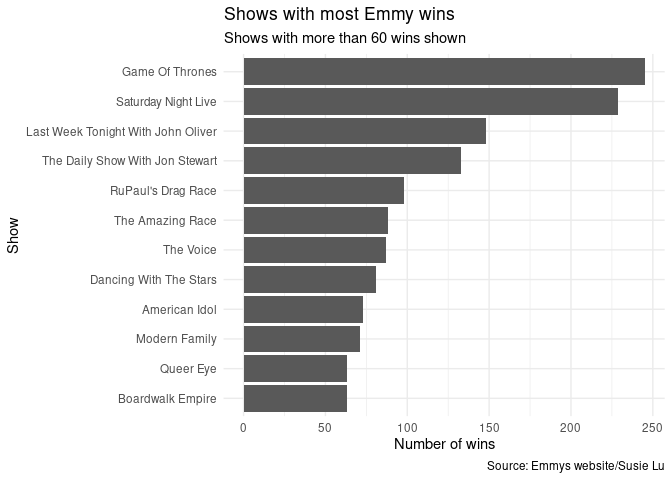
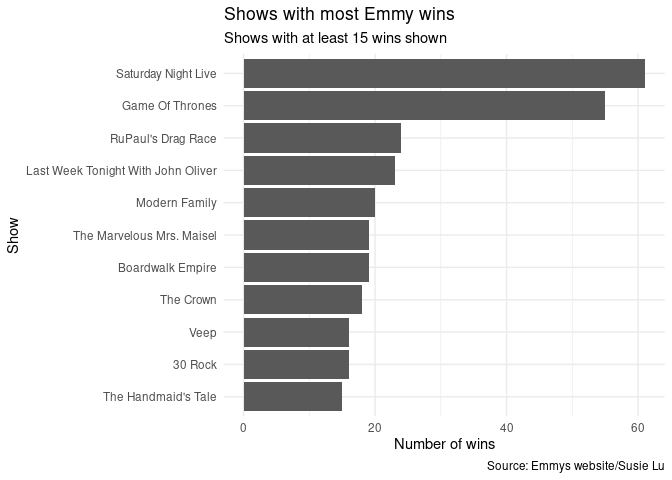
Complete analysis, convert to cautionary tale

diff --git a/week-01-emmys/emmys.md b/week-01-emmys/emmys.md
@@ -5,12 +5,20 @@ Alex Homer
 
 ``` r
 library(tidyverse)
+library(wesanderson) #For colour scales later
 ```
+
+*(Before running code chunks from this file, go to Session &gt; Set
+Working Directory &gt; To Files Pane Location in RStudio.)*
+
+*(Also, as you’ll see at the end, there’s a data collection error
+happened with this dataset that affects all of the analysis below. You
+have been warned!)*
 
 ## Read data
 
-The data are drawn from the “Tidy Tuesday” project: [2021 Week 39: Emmy
-Awards and
+The data are [1] drawn from the “Tidy Tuesday” project: [2021 Week 39:
+Emmy Awards and
 Nominees](https://github.com/rfordatascience/tidytuesday/blob/master/data/2021/2021-09-21/readme.md)
 (credit: [Emmys
 website](https://www.emmys.com/awards/nominations/award-search)/[Susie
@@ -18,7 +26,22 @@ Lu](https://www.susielu.com/data-viz/emmy-2017)). They have been lightly
 cleaned.
 
 ``` r
-nominees <- readRDS("data/nominees_clean.rds")
+nominees_original <- readRDS("data/nominees_clean.rds")
+```
+
+*(Some of the code used in the subsequent sections is relatively
+advanced! Don’t worry if you don’t understand what every line is doing.
+We’ll be covering all of these by the end of the course.)*
+
+## Cleanup
+
+We need to do a little more clean-up first, because some shows are
+multiple-listed when multiple people shared the same award.
+
+``` r
+nominees <- nominees_original %>%
+  select(category, type, title, distributor, year) %>%
+  distinct()
 ```
 
 ## Who won the most Emmys?
@@ -37,23 +60,23 @@ winners <- nominees %>%
     ## # A tibble: 719 × 2
     ##    title                                  n
     ##    <chr>                              <int>
-    ##  1 Game Of Thrones                      245
-    ##  2 Saturday Night Live                  229
-    ##  3 Last Week Tonight With John Oliver   148
-    ##  4 The Daily Show With Jon Stewart      133
-    ##  5 RuPaul's Drag Race                    98
-    ##  6 The Amazing Race                      88
-    ##  7 The Voice                             87
-    ##  8 Dancing With The Stars                81
-    ##  9 American Idol                         73
-    ## 10 Modern Family                         71
+    ##  1 Saturday Night Live                   61
+    ##  2 Game Of Thrones                       55
+    ##  3 RuPaul's Drag Race                    24
+    ##  4 Last Week Tonight With John Oliver    23
+    ##  5 Modern Family                         20
+    ##  6 Boardwalk Empire                      19
+    ##  7 The Marvelous Mrs. Maisel             19
+    ##  8 The Crown                             18
+    ##  9 30 Rock                               16
+    ## 10 Veep                                  16
     ## # … with 709 more rows
 
-Game of Thrones won the most Emmys. Let’s see a graph!
+*Saturday Night Live* won the most Emmys. Let’s see a graph!
 
 ``` r
 #First make a new data frame with an "other" category.
-cutoff <- 60
+cutoff <- 15
 
 winners_count %>% filter(n >= cutoff) %>%
   mutate(title = fct_reorder(title, n)) %>%
@@ -63,10 +86,206 @@ winners_count %>% filter(n >= cutoff) %>%
     x = "Number of wins",
     y = "Show",
     title = "Shows with most Emmy wins",
-    subtitle = paste("Shows with more than", cutoff, "wins shown"),
+    subtitle = paste("Shows with at least", cutoff, "wins shown"),
     caption = "Source: Emmys website/Susie Lu"
   ) +
   theme_minimal()
 ```
 
 ![](emmys_files/figure-gfm/winner-plot-1.png)<!-- -->
+
+What if we wanted to see which distributor was responsible for each
+winning show? We’ll need to go back to the original data, since we’ve
+already “thrown away” that information in the `winners_count` data
+frame.
+
+``` r
+cbbPalette <- c(
+  "#000000", "#E69F00", "#56B4E9", "#009E73",
+  "#F0E442", "#0072B2", "#D55E00", "#CC79A7"
+)
+
+winners %>% count(title, distributor) %>%
+  filter(n >= cutoff) %>%
+  mutate(title = fct_reorder(title, n)) %>%
+  ggplot(aes(x = n, y = title, fill = distributor)) +
+  geom_col() +
+  labs(
+    x = "Number of wins",
+    y = "Show",
+    fill = "Distributor",
+    title = "Shows with most Emmy wins",
+    subtitle = paste("Shows with at least", cutoff, "wins shown"),
+    caption = "Source: Emmys website/Susie Lu"
+  ) +
+  scale_fill_manual(values = cbbPalette) +
+  theme_minimal()
+```
+
+![](emmys_files/figure-gfm/distribs-1.png)<!-- -->
+
+The colour palette used is taken from [The R
+Cookbook](http://www.cookbook-r.com/Graphs/Colors_(ggplot2)/#a-colorblind-friendly-palette)
+and is colourblind-friendly.
+
+## HBO v Netflix
+
+HBO looks to have had quite a few of the most successful shows (in terms
+of Emmy nominations, at least), but one of the stories people chose to
+tell with these data on Tidy Tuesday was the rise of Netflix. Let’s see
+if we can graph that.
+
+``` r
+hbo_netflix <- nominees %>%
+  filter(distributor == "HBO" | distributor == "Netflix")
+
+#We need to account for the fact that winners were also nominees
+hbo_netflix_extra <- hbo_netflix %>%
+  filter(type == "Winner") %>%
+  mutate(type = "Nominee")
+
+hbo_netflix_year <- hbo_netflix %>%
+  bind_rows(hbo_netflix_extra) %>%
+  count(distributor, type, year)
+
+hbo_netflix_year %>%
+  arrange(year) %>%
+  mutate(distributor = fct_reorder(distributor, -n, last)) %>%
+  ggplot(aes(x = year, y = n)) +
+  geom_line(aes(colour = distributor, linetype = type), size = 2) +
+  scale_colour_manual(values = wes_palette("IsleofDogs1")) +
+  labs(
+    x = "Year",
+    y = "Number of nominations",
+    colour = "Distributor",
+    title = "Netflix overtook HBO for Emmy nominations in 2020...",
+    subtitle = "... and for winners in 2021",
+    caption = "Source: Emmys website/Susie Lu"
+  ) +
+  theme_minimal()
+```
+
+![](emmys_files/figure-gfm/hbo-v-netflix-1.png)<!-- -->
+
+Maybe the different line types are confusing… We could fix that by
+faceting, but we’ll do that another time.
+
+The `wes_palette` function used here is from the
+[`wesanderson`](https://cran.r-project.org/web/packages/wesanderson/index.html)
+package, and provides colourblind-friendly colour palettes inspired by
+the films of [Wes Anderson](https://en.wikipedia.org/wiki/Wes_Anderson)
+(who is known for “deliberately limited colour palette\[s\]” [2] in his
+movies).
+
+## What happened in 2014?
+
+See the dip in 2014? Let’s investigate that.
+
+``` r
+winners %>% count(year) %>%
+  ggplot(aes(x = year, y = n)) +
+  geom_line() +
+  labs(
+    x = "Year",
+    y = "Total number of winners",
+    title = "The number of Emmy winners rose sharply in the 21st Century...",
+    subtitle = "... apart from in 2014, apparently",
+    caption = "Source: Emmys website/Susie Lu"
+  ) +
+  theme_minimal()
+```
+
+![](emmys_files/figure-gfm/2014-1.png)<!-- -->
+
+Let’s investigate…
+
+``` r
+nominees_2014 <- nominees_original %>%
+  filter(year == 2014)
+
+nominees_2013 <- nominees_original %>%
+  filter(year == 2013)
+
+nominees_2014 %>% select(category) %>%
+  distinct()
+```
+
+    ## # A tibble: 14 × 1
+    ##    category                                                 
+    ##    <chr>                                                    
+    ##  1 Outstanding Lead Actress In A Drama Series               
+    ##  2 Outstanding Lead Actor In A Drama Series                 
+    ##  3 Outstanding Supporting Actress In A Drama Series         
+    ##  4 Outstanding Supporting Actor In A Drama Series           
+    ##  5 Outstanding Guest Actress In A Drama Series              
+    ##  6 Outstanding Guest Actor In A Drama Series                
+    ##  7 Outstanding Lead Actress In A Comedy Series              
+    ##  8 Outstanding Lead Actor In A Comedy Series                
+    ##  9 Outstanding Supporting Actress In A Comedy Series        
+    ## 10 Outstanding Supporting Actor In A Comedy Series          
+    ## 11 Outstanding Guest Actress In A Comedy Series             
+    ## 12 Outstanding Guest Actor In A Comedy Series               
+    ## 13 Outstanding Lead Actor In A Miniseries Or A Movie        
+    ## 14 Outstanding Supporting Actress In A Miniseries Or A Movie
+
+The 2014 dataset only appear to contain acting awards! Whereas for 2013,
+if we look at awards without the words “Actor” or “Actress” in the
+title.
+
+``` r
+nominees_2013 %>% select(category) %>%
+  filter(!str_detect(category, "Actor")) %>%
+  filter(!str_detect(category, "Actress")) %>%
+  distinct()
+```
+
+    ## # A tibble: 81 × 1
+    ##    category                                                           
+    ##    <chr>                                                              
+    ##  1 Outstanding Writing For A Drama Series                             
+    ##  2 Outstanding Directing For A Drama Series                           
+    ##  3 Outstanding Drama Series                                           
+    ##  4 Outstanding Writing For A Comedy Series                            
+    ##  5 Outstanding Directing For A Comedy Series                          
+    ##  6 Outstanding Comedy Series                                          
+    ##  7 Outstanding Writing For A Miniseries, Movie Or A Dramatic Special  
+    ##  8 Outstanding Directing For A Miniseries, Movie Or A Dramatic Special
+    ##  9 Outstanding Miniseries Or Movie                                    
+    ## 10 Outstanding Choreography                                           
+    ## # … with 71 more rows
+
+We see lots of different awards. This appears to be a data problem—it
+looks like the 2014 awards haven’t been scraped properly from the
+website.
+
+``` r
+nominees %>% filter(
+  title == "Breaking Bad",
+  category == "Outstanding Drama Series"
+)
+```
+
+    ## # A tibble: 4 × 5
+    ##   category                 type    title        distributor  year
+    ##   <chr>                    <chr>   <chr>        <chr>       <dbl>
+    ## 1 Outstanding Drama Series Winner  Breaking Bad AMC          2013
+    ## 2 Outstanding Drama Series Nominee Breaking Bad AMC          2012
+    ## 3 Outstanding Drama Series Nominee Breaking Bad AMC          2010
+    ## 4 Outstanding Drama Series Nominee Breaking Bad AMC          2009
+
+Yep, *Breaking Bad* [won this award in
+2014](https://www.emmys.com/awards/nominations/award-search?search_api_views_fulltext=&field_is_winner=1&field_award_category%5B%5D=44541&field_celebrity_details_field_display_name=&field_show_details_field_nominee_show_nr_title=&field_nominations_year_op=%3E%3D&field_nominations_year%5Bvalue%5D=2014-01-01&field_nominations_year_1_op=%3C%3D&field_nominations_year_1%5Bvalue%5D=2014-01-01).
+There’s been a data collection error, and of course that affects our
+whole analysis!
+
+*(This wasn’t building up to a deliberate conclusion—I realised these
+things in the order presented here. Beware: this could happen to you! At
+some point I will go back and re-scrape the data including the 2014
+shows properly, and re-do the plots.)*
+
+[1] People disagree on whether you should say “The data is” or “The data
+are”. I’ve had it drummed into me that “data” is a plural word—singular
+“datum” or “data point”—but you are free to disagree with me!
+
+[2] Source:
+[Wikipedia](https://en.wikipedia.org/wiki/Wes_Anderson#Visual_style)
